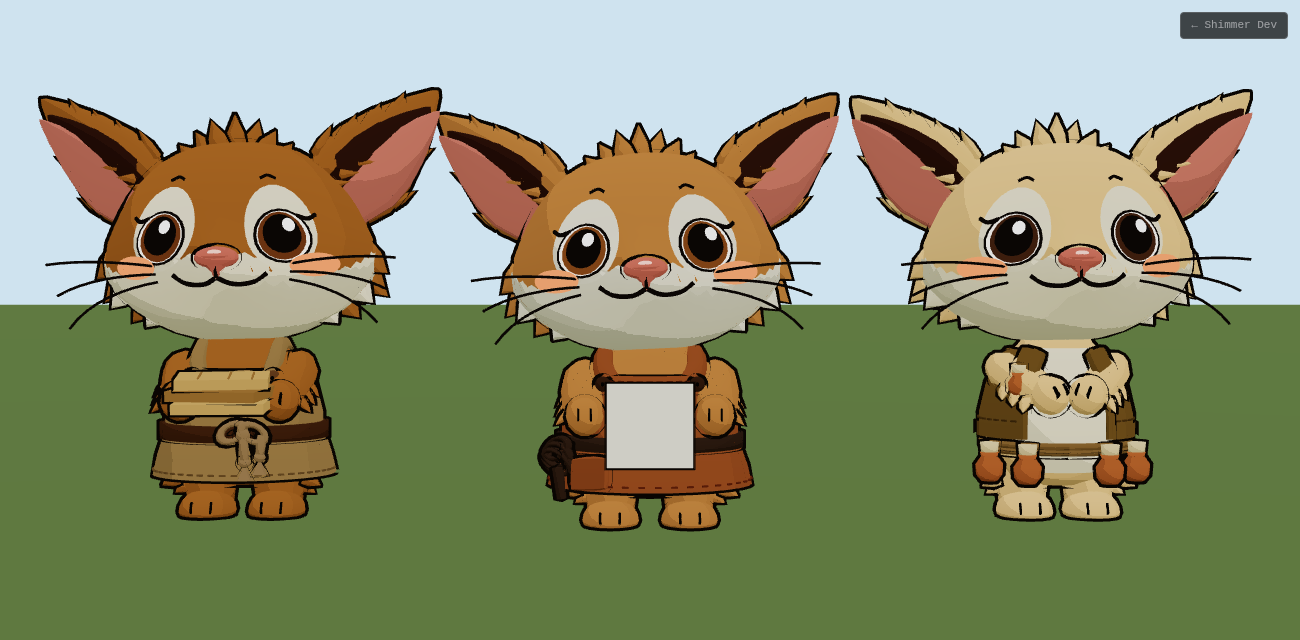
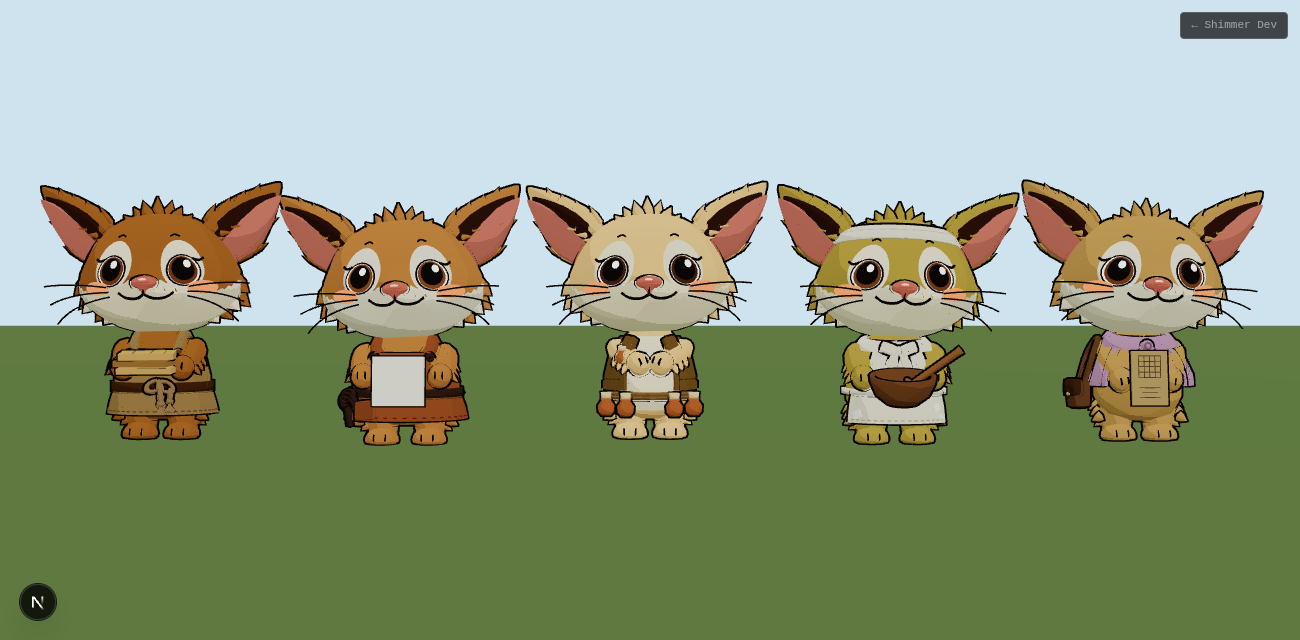
M162 s2: Fennel and Mallow in their locked looks (headscarf, floured apron, bowl and spoon; mauve shawl, satchel, tally board); Fennel at the Rinnshop draws the same look
Claude-Session: https://claude.ai/code/session_011NDAqnvXGUBPNPVzdUSGhT

diff --git a/src/app/shimmer/open/shared/moglin-figure.ts b/src/app/shimmer/open/shared/moglin-figure.ts
@@ -6,8 +6,8 @@ import * as THREE from 'three'
 import { Mould, buf, turn, tube, band, radAt, BOOTFOOT, ROUND, type Prof, type V3, type FriendJoint } from './friend-figure'
 import type { MoglinAction } from './moglin-model'
 
-export type MoglinLook = 'hazel' | 'sax' | 'yarrow'
-export const MOGLIN_LOOKS: readonly MoglinLook[] = ['hazel', 'sax', 'yarrow']
+export type MoglinLook = 'hazel' | 'sax' | 'yarrow' | 'fennel' | 'mallow'
+export const MOGLIN_LOOKS: readonly MoglinLook[] = ['hazel', 'sax', 'yarrow', 'fennel', 'mallow']
 /** the Glade's folk ids are `moonwell:<name>` (moonwell-glade.ts); nobody else has a look of their own */
 export const moglinLook = (id: string): MoglinLook | null => MOGLIN_LOOKS.find(k => id === `moonwell:${k}`) ?? null
 
@@ -34,6 +34,8 @@ export const LOOK_COLOR = {
   hazel: { fur: '#b57230', light: '#fff0d2', eye: '#6b3f1c', cloth: '#a98552', clothDark: '#7d5f38', belt: '#5c3820', cord: '#a8855c', toggle: '#7a5230', plank: '#d9ab66', plankEdge: '#a97a3e' },
   sax: { fur: '#cf8a48', light: '#fbf0da', eye: '#7a4a20', cloth: '#a85f30', clothDark: '#7a3a1b', belt: '#4a3528', toggle: '#4f3322', stone: '#fff6e6' },
   yarrow: { fur: '#ffce8c', light: '#fff0d0', eye: '#4a2e1c', cloth: '#84632f', clothDark: '#5f4520', cord: '#96713f', jar: '#c4703a', cork: '#f3d8a6' },
+  fennel: { fur: '#c4a548', light: '#fff3d6', eye: '#6b4320', cloth: '#f4ead2', clothDark: '#c9b78e', flour: '#fffdf6', bowl: '#8a5a34', bowlIn: '#5e3b22', batter: '#e9cf94', spoon: '#a06a3c' },
+  mallow: { fur: '#d2a15c', light: '#fff4dc', eye: '#6a4222', cloth: '#c79bb8', clothDark: '#9a7190', leather: '#7a5233', leatherDark: '#573823', toggle: '#c9a36a', board: '#c2a36b', mark: '#5a4630' },
 } as const
 const INK = '#1c1712', NOSE = '#dd7a68', EAR_IN = '#de8474', EAR_DARK = '#4a2a1e', BLUSH = '#ec8a5e'
 const T = 0.0075   // the ink line
@@ -144,7 +146,23 @@ const toggle = (m: Mould, color: string, p: V3) => { m.ball(color, p, [0.017, 0.
 function tassel(m: Mould, color: string, p: V3, len: number, lean: number) {
   m.add(tube([[0.009, 0], [0.011, len * 0.5], [0.009, len]], 8), color, [p[0], p[1] - len, p[2]], [1, 1, 1], [0, 0, lean]); m.ball(color, [p[0], p[1] - len, p[2]], [0.013, 0.011, 0.012]); m.add(new THREE.ConeGeometry(0.017, 0.035, 8), color, [p[0], p[1] - len - 0.02, p[2]])
 }
-interface Look { wide: number; stride: number; holds: MoglinFigure['holds']; dress: (m: Mould, P: Prof) => void }
+/** a closed ribbon laid round the head: its lower / upper edge (lat) at each yaw, `t` proud */
+function headBand(lo: (a: number) => number, hi: (a: number) => number, t: number, U = 44) {
+  const p: number[] = [], i: number[] = [], K = 5
+  for (let u = 0; u <= U; u++) { const a = u / U * Math.PI * 2, b0 = lo(a), b1 = hi(a)
+    for (const [b, l] of [[b0, t * 0.7], [(b0 + b1) / 2, t], [b1, t * 0.7], [b1, -0.006], [b0, -0.006]] as const) p.push(...S(a, b, l)) }
+  for (let u = 0; u < U; u++) for (let k = 0; k < K; k++) { const A = u * K + k, B = u * K + (k + 1) % K, C = A + K, D = B + K; i.push(A, C, B, B, C, D) }
+  const g = buf(p, i); g.computeVertexNormals(); return g
+}
+/** a tied knot: two loops and two tails, facing +z at `p` */
+function bow(m: Mould, color: string, p: V3, k: number, tails = 0.07) {
+  for (const s of [-1, 1]) {
+    m.add(ROUND, color, [p[0] + s * 0.034 * k, p[1] + 0.006 * k, p[2]], [0.03 * k, 0.019 * k, 0.012 * k], [0, s * 0.25, s * 0.35])
+    m.add(ROUND, color, [p[0] + s * 0.02 * k, p[1] - tails * 0.5 * k, p[2] + 0.004], [0.014 * k, tails * 0.55 * k, 0.008 * k], [0.12, 0, s * 0.3])
+  }
+  m.ball(color, p, [0.016 * k, 0.016 * k, 0.014 * k])
+}
+interface Look { wide: number; stride: number; holds: MoglinFigure['holds']; dress: (m: Mould, P: Prof) => void; head?: (m: Mould) => void }
 
 const DRESS: Record<MoglinLook, Look> = {
   // canvas apron (bib + shoulder straps, open behind below the belt), a cord belt tied in front; square planks on both paws
@@ -193,6 +211,57 @@ const DRESS: Record<MoglinLook, Look> = {
     for (const a of [-1.05, -0.5, 0.5, 1.05]) jar(a, 0.16, 0.92, 0.042)
     jar(-0.72, 0.34, 0.7, 0.026)   // in the vest
   } },
+  // plump; a headscarf, a neckerchief tied in front, a floured apron on the front of her; the bowl in her paws, the big spoon in it
+  fennel: { wide: 1.1, stride: 0.7, holds: { pitch: -0.98, roll: 0.06 }, dress: (m, P) => {
+    const C = LOOK_COLOR.fennel, BIB = slice(P, 0.2, 0.37, 0.014), SK: Prof = [[0.208, 0.098], [0.203, 0.15], [0.19, 0.215]]
+    cloth(m, BIB, C.cloth, -0.62, 0.62); cloth(m, SK, C.cloth, -1.05, 1.05)
+    stitch(m, SK, 0.11, C.clothDark, -0.98, 0.98, 16)
+    m.add(band(grow(P, 1, 0.006), ZS, () => 0.213, 0.02, 0.012), C.cloth)   // the apron's string
+    bow(m, C.cloth, at(P, Math.PI, 0.213, 0.024).map((v, k) => k === 2 ? v - 0.004 : v) as V3, 0.8, 0.06)
+    for (const [a, y, w] of [[-0.82, 0.13, 0.02], [0.78, 0.155, 0.016], [0.9, 0.118, 0.012], [-0.45, 0.355, 0.012]] as const) m.add(ROUND, C.flour, at(a < -0.5 || a > 0.5 ? SK : BIB, a, y, 0.002), [w, w * 0.8, 0.003], [0, a, 0.4], false)
+    // the neckerchief: round her neck, knotted under the chin
+    m.add(band(grow(P, 1, 0.012), ZS, a => 0.392 - 0.012 * Math.cos(a), 0.04, 0.018), C.cloth)
+    bow(m, C.cloth, [0, 0.368, at(P, 0, 0.37, 0.04)[2]], 1.05, 0.062)
+    // the bowl, tipped a little to show, and the spoon standing in it toward her left paw
+    const B: V3 = [0, 0.178, 0.262], tip: V3 = [0.2, 0, 0]
+    m.add(turn([[0.0, 0], [0.058, 0.004], [0.098, 0.036], [0.117, 0.078], [0.121, 0.106], [0.11, 0.106], [0.104, 0.07], [0.07, 0.03], [0.0, 0.022]], 0, Math.PI * 2, 22), C.bowl, B, [1, 1, 0.9], tip)
+    m.add(turn([[0.0, 0.066], [0.1, 0.066]], 0, Math.PI * 2, 18), C.batter, B, [1, 1, 0.9], tip, false)
+    m.add(turn([[0.1, 0.066], [0.107, 0.1]], 0, Math.PI * 2, 18), C.bowlIn, B, [1, 1, 0.9], tip, false)
+    m.add(tube([[0.011, 0], [0.013, 0.2], [0.016, 0.225]], 8), C.spoon, [0.03, 0.245, 0.262], [1, 1, 1], [0.1, 0, -0.95])
+    m.ball(C.spoon, [0.03, 0.247, 0.262], [0.03, 0.012, 0.022], [0.1, 0, -0.95])
+  }, head: m => {
+    const C = LOOK_COLOR.fennel, tilt = (a: number) => 0.16 * (1 - Math.cos(a))   // lower behind, under the ears' roots
+    m.add(headBand(a => 0.7 - tilt(a), a => 1.0 - tilt(a) * 0.8, 0.016), C.cloth)
+    m.add(headBand(a => 0.84 - tilt(a) * 0.9, a => 0.86 - tilt(a) * 0.9, 0.0175, 30), C.clothDark, undefined, undefined, undefined, false)   // its fold
+    const k = S(Math.PI, 0.5, 0.02); bow(m, C.cloth, [k[0], k[1], k[2] - 0.004], 0.85, 0.07)
+  } },
+  // a mauve shawl knotted at the throat, open in front; a satchel on its strap at her right hip (a wooden toggle); the tally board in both paws
+  mallow: { wide: 1, stride: 0.85, holds: { pitch: -0.8, roll: 0.22 }, dress: (m, P) => {
+    const C = LOOK_COLOR.mallow, G = 0.8
+    const CAPE: Prof = [[0.176, 0.222], [0.172, 0.262], [0.15, 0.318], [0.118, 0.366], [0.094, 0.402]]
+    const shawl = (pr: Prof, color: string, ink = true) => { const loop: Prof = [...pr, ...[...pr].reverse().map(([r, y]) => [r - 0.012, y] as const), pr[0]]; m.add(turn(loop, G, Math.PI * 2 - G, 30), color, [0, 0, 0], [1.2, 1, 0.98], [0, 0, 0], ink) }
+    shawl(CAPE, C.cloth)
+    for (const a of [G, Math.PI * 2 - G]) m.add(new THREE.TubeGeometry(new THREE.CatmullRomCurve3(CAPE.map(([r, y]) => new THREE.Vector3(Math.sin(a) * (r - 0.006) * 1.2, y, Math.cos(a) * (r - 0.006) * 0.98))), 8, 0.009, 5), C.cloth)
+    for (let k = 0; k < 5; k++) { const a = Math.PI + (k - 2) * 0.42; m.add(new THREE.TubeGeometry(new THREE.CatmullRomCurve3([[0.105, 0.39], [0.14, 0.34], [0.171, 0.275], [0.177, 0.23]].map(([r, y]) => new THREE.Vector3(Math.sin(a) * (r + 0.001) * 1.2, y, Math.cos(a) * (r + 0.001) * 0.98))), 8, 0.004, 4), C.clothDark, undefined, undefined, undefined, false) }   // its folds
+    m.add(band(grow(P, 1, 0.016), ZS, a => 0.396 - 0.014 * Math.cos(a), 0.044, 0.02), C.cloth)   // the roll at her neck
+    const kz = at(P, 0, 0.375, 0.046)[2]
+    m.ball(C.cloth, [0, 0.374, kz], [0.022, 0.02, 0.018]); m.add(new THREE.TorusGeometry(0.011, 0.004, 5, 12), C.clothDark, [0, 0.374, kz + 0.016], [1, 1, 1], [0, 0, 0], false)
+    for (const s of [-1, 1]) m.add(ROUND, C.cloth, [s * 0.018, 0.338, kz - 0.004], [0.014, 0.03, 0.008], [0.1, 0, s * 0.35])
+    // the satchel at her right hip (-x), its strap over that shoulder
+    const b = at(P, -1.5, 0.19, 0.062), yaw = -1.5
+    m.add(ROUND, C.leather, b, [0.062, 0.052, 0.03], [0, yaw, 0.05])
+    m.add(ROUND, C.leatherDark, [b[0] + Math.sin(yaw) * 0.022, b[1] + 0.022, b[2] + Math.cos(yaw) * 0.022], [0.066, 0.032, 0.016], [0, yaw, 0.05])
+    const tg: V3 = [b[0] + Math.sin(yaw) * 0.04, b[1] - 0.002, b[2] + Math.cos(yaw) * 0.04]
+    m.add(tube([[0.006, -0.018], [0.008, 0], [0.006, 0.018]], 8), C.toggle, tg, [1, 1, 1], [Math.PI / 2, 0, 0.2]); m.add(new THREE.TorusGeometry(0.012, 0.0035, 5, 12), C.leatherDark, tg, [1, 1.3, 1], [0, yaw, 0], false)
+    const q: V3[] = [[b[0] + 0.012, b[1] + 0.045, b[2] + 0.05], [-0.186, 0.33, 0.07], [-0.152, 0.398, 0.012], [-0.17, 0.34, -0.085], [b[0] + 0.012, b[1] + 0.045, b[2] - 0.05]]
+    m.add(new THREE.TubeGeometry(new THREE.CatmullRomCurve3(q.map(v => new THREE.Vector3(...v))), 18, 0.011, 6), C.leather, undefined, [1, 1, 1])
+    // the tally board: a grid on its top half, three lines under it
+    const T0: V3 = [0, 0.255, 0.186], rx = -0.13, R = new THREE.Matrix4().makeRotationX(rx)
+    m.add(new THREE.BoxGeometry(1, 1, 1), C.board, T0, [0.132, 0.2, 0.014], [rx, 0, 0])
+    const on = (x: number, y: number, w: number, h: number) => { const v = new THREE.Vector3(x, y, 0.0076).applyMatrix4(R); m.add(ROUND, C.mark, [T0[0] + v.x, T0[1] + v.y, T0[2] + v.z], [w, h, 0.0006], [rx, 0, 0], false) }
+    for (let k = 0; k < 5; k++) { on(-0.04 + k * 0.02, 0.042, 0.0013, 0.04); on(0, 0.002 + k * 0.02, 0.041, 0.0013) }
+    for (const [y, w] of [[-0.036, 0.038], [-0.054, 0.03], [-0.072, 0.038]] as const) on(0, y, w, 0.0011)
+  } },
 }
 function build(id: MoglinLook): MoglinFigure {
   const C = LOOK_COLOR[id], L = DRESS[id], P = grow(TORSO, L.wide), body = new Mould(T), HIP = 0.13, SX = 0.128 * L.wide, SY = 0.35
@@ -210,7 +279,7 @@ function build(id: MoglinLook): MoglinFigure {
     for (const k of [-1, 1]) m.add(ROUND, INK, [k * 0.0135, -0.185, 0.026], [0.0024, 0.013, 0.012], [0.6, 0, 0], false)
     for (let k = 0; k < 3; k++) lock(m, C.fur, [s * 0.036, -0.05 - k * 0.035, -0.012], [s, -0.9, -0.5], 0.042, 0.035)
     return m }
-  const h = headParts(C)
+  const h = headParts(C); L.head?.(h.head)
   return {
     joints: {
       body: body.joint([0, 0, 0]), head: h.head.joint([0, 0.41, 0]),

diff --git a/src/app/shimmer/open/shared/moglin-figure.test.ts b/src/app/shimmer/open/shared/moglin-figure.test.ts
@@ -10,8 +10,9 @@ let n = 0
 const ok = (c: boolean, m: string) => { n++; if (!c) { console.error('✗ ' + m); process.exitCode = 1 } }
 // ── who has a look of their own: these, in the Glade, and nobody else ───────────────────────────────────────────────────────
 ok(gladeFolk(0).filter(f => moglinLook(f.id)).map(f => moglinLook(f.id)).sort().join() === [...MOGLIN_LOOKS].sort().join(), 'the Glade stands every look, once')
+ok(gladeFolk(0).length === 5 && MOGLIN_LOOKS.length === 5 && gladeFolk(0).every(f => moglinLook(f.id)), 'all five of the Glade have a look: no plain Moglin stands there')
 for (const k of MOGLIN_LOOKS) ok(moglinLook(`${GLADE_ID}:${k}`) === k, `${k}: by the Glade's id`)
-for (const id of ['hazel', 'sax', 'yarrow', 'gloview:hazel', 'moonwell:hazel2', 'xmoonwell:sax', 'm70:yarrow', 'burr:sax', 'fennel', 'mallow', 'otto', '', ...SETTLERS.map(s => s.id)]) ok(moglinLook(id) === null, `'${id}' is a plain Moglin`)
+for (const id of ['hazel', 'sax', 'yarrow', 'gloview:hazel', 'moonwell:hazel2', 'xmoonwell:sax', 'm70:yarrow', 'burr:sax', 'fennel', 'mallow', 'gloview:fennel', 'moonwell:mallow2', 'm70:mallow', 'otto', '', ...SETTLERS.map(s => s.id)]) ok(moglinLook(id) === null, `'${id}' is a plain Moglin`)
 // ── the plain Moglin, as it was: pose, blink, coat and drawing are pinned to the code before M162 ───────────────────────────
 const poses = MOGLIN_ACTIONS.map(a => [0, 0.4, 1.3, 2.9, 5, 5.6].map(t => moglinPose(a, t)))
 ok(createHash('sha1').update(JSON.stringify(poses, (_, v) => (typeof v === 'number' ? Math.round(v * 1e9) / 1e9 : v))).digest('hex') === 'cfbe5dad07a4b63c55ac5eb88c5a2a2375ea73d4', 'every action poses as before')
@@ -19,7 +20,7 @@ ok(moglinBlink(0.1, 0) === 0.12 && moglinBlink(0.13, 0) === 1 && moglinBlink(3.7
 ok(MOGLIN_BUILD === 'chibi' && Math.abs(MOGLIN_HEIGHT.chibi - 0.9092) < 1e-9, 'its height (the talk camera + bubble)')
 ok(['gloview:a', 'm70:b', 'moonwell:fennel', 'moonwell:mallow', 'x1'].map(i => furOf(i).id).join() === 'clay,honey,clay,clay,fawn' && FUR_TONES.length === 5, 'its coat')
 { const src = readFileSync('src/app/shimmer/open/shared/moglin-model.tsx', 'utf8'), i = src.indexOf('  const fur = <meshStandardMaterial'); ok(i > 0 && createHash('sha1').update(src.slice(i)).digest('hex') === 'd063cab986e8a44331b98fa345e14919cdb5d3ac', 'the plain Moglin is drawn as before (re-pin only when its look is MEANT to change)') }
-{ const A = 'src/app/shimmer/open/ather', users = readdirSync(A).filter(f => f.endsWith('.tsx') && /NamedMoglin|MoglinLookModel/.test(readFileSync(`${A}/${f}`, 'utf8'))); ok(users.sort().join() === 'glade-cluster-view.tsx,moglin-card-view.tsx', `looks are asked for in the Glade + the card only (${users})`) }
+{ const A = 'src/app/shimmer/open/ather', users = readdirSync(A).filter(f => f.endsWith('.tsx') && /NamedMoglin|MoglinLookModel/.test(readFileSync(`${A}/${f}`, 'utf8'))); ok(users.sort().join() === 'fennel.tsx,glade-cluster-view.tsx,moglin-card-view.tsx', `looks are asked for in the Glade, the card and Fennel at the Rinnshop only (${users})`) }
 // ── the figures ─────────────────────────────────────────────────────────────────────────────────────────────────────────────
 ok(MOGLIN_LOOK_CALLS < 35, 'fewer draw calls than the plain chibi')
 const has = (g: THREE.BufferGeometry, hex: string) => { const c = new THREE.Color(hex), a = g.attributes.color; for (let k = 0; k < a.count; k++) if (Math.abs(a.getX(k) - c.r) + Math.abs(a.getY(k) - c.g) + Math.abs(a.getZ(k) - c.b) < 1e-3) return true; return false }
@@ -42,10 +43,19 @@ for (const id of MOGLIN_LOOKS) {
   for (const [k, hex] of Object.entries(LOOK_COLOR[id])) ok([...Object.values(f.joints).map(J => J.toon), f.face, f.eyes].some(g => has(g, hex)), `${id}: ${k}`)
   const c = new THREE.Color(LOOK_COLOR[id].fur).getHSL({ h: 0, s: 0, l: 0 }); ok(c.s > 0.4 && c.h > 0.05 && c.h < 0.13, `${id}: earth fur, never grey`)
 }
-const [h, s, y] = MOGLIN_LOOKS.map(moglinFigure), L = (k: 'hazel' | 'sax' | 'yarrow') => new THREE.Color(LOOK_COLOR[k].fur).getHSL({ h: 0, s: 0, l: 0 }).l
+const [h, s, y, fe, ma] = MOGLIN_LOOKS.map(moglinFigure), L = (k: 'hazel' | 'sax' | 'yarrow') => new THREE.Color(LOOK_COLOR[k].fur).getHSL({ h: 0, s: 0, l: 0 }).l
 ok(s.joints.armR.at[0] > h.joints.armR.at[0] && h.joints.armR.at[0] > y.joints.armR.at[0], 'Sax is the broad one, Yarrow the slight one')
 ok(L('hazel') < L('sax') && L('sax') < L('yarrow'), 'chestnut, clay-tan, warm fawn')
 // what they carry stays in their paws
 for (const a of MOGLIN_ACTIONS) { const p = moglinPose(a, 1.1); const q = holdPose(p, s.holds, a); ok(q.aL[0] === s.holds!.pitch && (a === 'wave' ? q.aR === p.aR : q.aR[0] === s.holds!.pitch), `${a}: the stone stays held`); ok(holdPose(p, y.holds, a) === p, `${a}: Yarrow's paws are free`) }
 ok(!!h.holds && h.holds.pitch < -0.8, 'Hazel carries her planks')
+// ── Fennel + Mallow (s2) ────────────────────────────────────────────────────────────────────────────────────────────────────
+ok(fe.joints.armR.at[0] > h.joints.armR.at[0] && fe.joints.armR.at[0] < s.joints.armR.at[0] && ma.joints.armR.at[0] === h.joints.armR.at[0], 'Fennel is plump (Sax still the broad one), Mallow plain built')
+ok(has(fe.joints.head.toon, LOOK_COLOR.fennel.cloth) && MOGLIN_LOOKS.every(k => k === 'fennel' || !has(moglinFigure(k).joints.head.toon, LOOK_COLOR.fennel.cloth)), 'the headscarf is on Fennel, and only on her')
+ok(has(fe.joints.body.toon, LOOK_COLOR.fennel.bowl) && has(fe.joints.body.toon, LOOK_COLOR.fennel.spoon) && has(fe.joints.body.toon, LOOK_COLOR.fennel.flour), 'her bowl, her spoon, flour on the apron')
+ok(has(ma.joints.body.toon, LOOK_COLOR.mallow.cloth) && has(ma.joints.body.toon, LOOK_COLOR.mallow.leather) && has(ma.joints.body.toon, LOOK_COLOR.mallow.board) && has(ma.joints.body.toon, LOOK_COLOR.mallow.toggle), "Mallow's shawl, satchel (a wooden toggle), tally board")
+{ const c = new THREE.Color(LOOK_COLOR.mallow.cloth).getHSL({ h: 0, s: 0, l: 0 }); ok(c.h > 0.78 && c.h < 0.95 && c.s < 0.45, 'the shawl is mauve') }
+{ const hue = (k: keyof typeof LOOK_COLOR) => new THREE.Color(LOOK_COLOR[k].fur).getHSL({ h: 0, s: 0, l: 0 }).h; ok(MOGLIN_LOOKS.every(k => k === 'fennel' || hue('fennel') > hue(k) + 0.015), 'Fennel is the mossy one: the greenest gold of the five') }
+for (const a of MOGLIN_ACTIONS) { const p = moglinPose(a, 1.1); for (const f of [fe, ma]) { const q = holdPose(p, f.holds, a); ok(!!f.holds && q.aL[0] === f.holds.pitch && (a === 'wave' ? q.aR === p.aR : q.aR[0] === f.holds.pitch), `${a}: the bowl / the board stays held`) } }
+{ const far = (a: string, b: string) => { const x = new THREE.Color(a), y = new THREE.Color(b); return Math.abs(x.r - y.r) + Math.abs(x.g - y.g) + Math.abs(x.b - y.b) }; ok(MOGLIN_LOOKS.every((a, i) => MOGLIN_LOOKS.every((b, j) => i >= j || far(LOOK_COLOR[a].fur, LOOK_COLOR[b].fur) > 0.05)), 'five coats, each its own') }
 console.log(`moglin-figure: ${n} checks${process.exitCode ? ' FAIL' : ' ok'}`)

diff --git a/src/app/shimmer/dev/moglin-looks/page.tsx b/src/app/shimmer/dev/moglin-looks/page.tsx
@@ -7,9 +7,9 @@ import { MoglinLookModel } from '../../open/shared/moglin-look-model'
 import { MOGLIN_LOOKS } from '../../open/shared/moglin-figure'
 import type { MoglinAction } from '../../open/shared/moglin-model'
 
-function Probe() {
+function Probe({ far }: { far: number }) {
   const { gl, scene, camera, size } = useThree()
-  useEffect(() => { camera.position.set(0, 0.62, Math.max(4.2, 2.95 * size.height / size.width * 3.15)); camera.lookAt(0, 0.47, 0); (window as unknown as { __moglinBench?: unknown }).__moglinBench = { calls: () => gl.info.render.calls, scene } }, [gl, scene, camera, size])
+  useEffect(() => { camera.position.set(0, 0.62, Math.max(4.2, 2.95 * size.height / size.width * 3.15) * far); camera.lookAt(0, 0.47, 0); (window as unknown as { __moglinBench?: unknown }).__moglinBench = { calls: () => gl.info.render.calls, scene } }, [gl, scene, camera, size, far])
   return null
 }
 export default function MoglinLooksBench() {
@@ -26,7 +26,7 @@ export default function MoglinLooksBench() {
         <directionalLight position={[3, 6, 4]} intensity={1.15} /><directionalLight position={[-2, 2, 5]} intensity={0.35} />
         <mesh rotation={[-Math.PI / 2, 0, 0]}><planeGeometry args={[40, 40]} /><meshStandardMaterial color="#7d9455" roughness={1} /></mesh>
         {set.map((s, i) => <group key={i} position={[(i - (set.length - 1) / 2) * 0.92, 0, 0]} rotation-y={s.t * Math.PI / 180}><MoglinLookModel who={s.id} action={action} seed={i} /></group>)}
-        <Probe />
+        <Probe far={Math.max(1, set.length / 3)} />
       </Canvas>
     </div>
   )

diff --git a/src/app/shimmer/open/ather/fennel.tsx b/src/app/shimmer/open/ather/fennel.tsx
@@ -4,7 +4,9 @@
 // rinstick's quest starts and ends in that talk. BUILD (Jin): Fennel stands just outside the Rinnshop door, beside it,
 // facing out, for as long as the quest is open (rinquest.ts › fennelHere); the chibi Moglin rig the settlements use, with
 // an apron for the kitchen (a build pick, look = Alex's call). The talk itself is use-rinquest.ts › fennelTalk.
-import { MoglinModel, furOf, MOGLIN_HEIGHT } from '../shared/moglin-model'
+// M162 s2: she is drawn in her locked look (moglin-figure.ts › fennel), the same Fennel the Glade stands.
+import { MOGLIN_HEIGHT } from '../shared/moglin-model'
+import { MoglinLookModel } from '../shared/moglin-look-model'
 import { ROOMS, toWorld, raised, type Works } from './rooms'
 
 /** Where Fennel stands: beside the first raised Rinnshop's door, 1.4 m out and 1.8 m to the side, facing away from the room.
@@ -19,7 +21,7 @@ export const FENNEL_HEAD = MOGLIN_HEIGHT.chibi
 export function Fennel({ spot, y, talking }: { spot: { x: number; z: number; yaw: number }; y: number; talking: boolean }) {
   return (
     <group position={[spot.x, y, spot.z]} rotation-y={spot.yaw}>
-      <MoglinModel build="chibi" action={talking ? 'wave' : 'idle'} garb="apron" tone={furOf('fennel')} seed={3.1} />
+      <MoglinLookModel who="fennel" action={talking ? 'wave' : 'idle'} seed={3.1} />
     </group>
   )
 }

diff --git a/src/app/shimmer/open/shared/moglin-look-model.tsx b/src/app/shimmer/open/shared/moglin-look-model.tsx
@@ -1,5 +1,5 @@
 'use client'
-// <NamedMoglin id />: a Moglin by its id. The named ones (moglin-figure.ts: Hazel, Sax, Yarrow in the Glade, BETA M162) draw in
+// <NamedMoglin id />: a Moglin by its id. The named ones (moglin-figure.ts: the Glade's five, BETA M162) draw in
 // their locked looks; every other id is the plain chibi in its id's own coat, as before. Same poses (moglinPose), one rig.
 import { useRef } from 'react'
 import { useFrame } from '@react-three/fiber'
